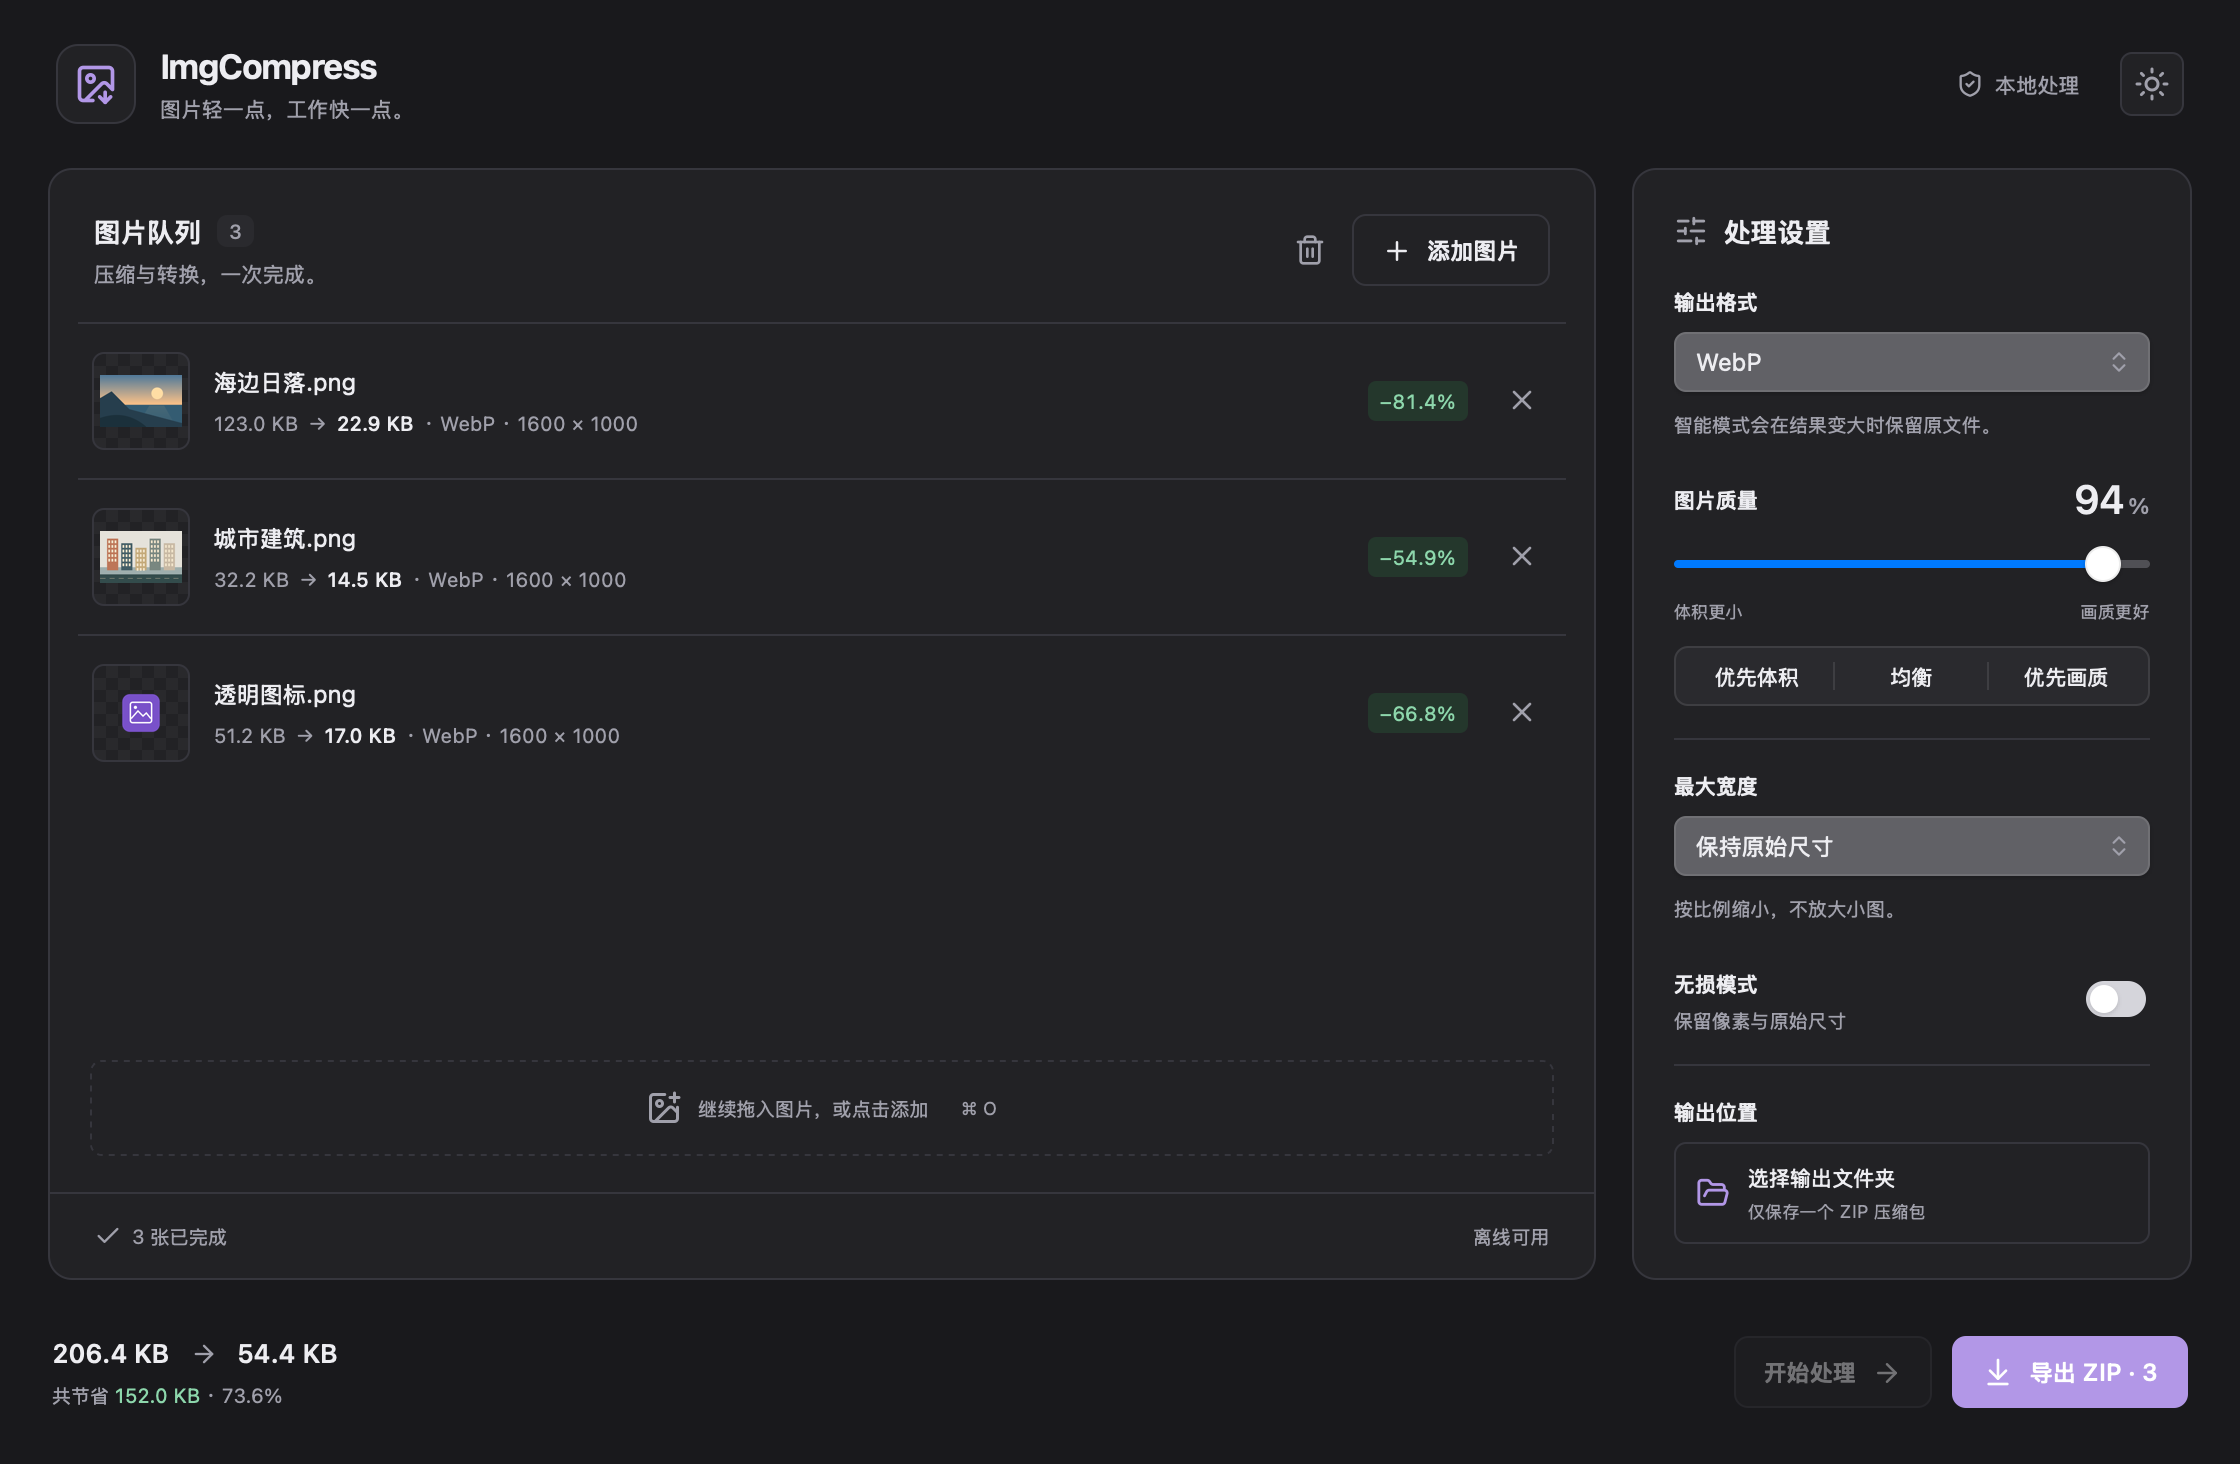
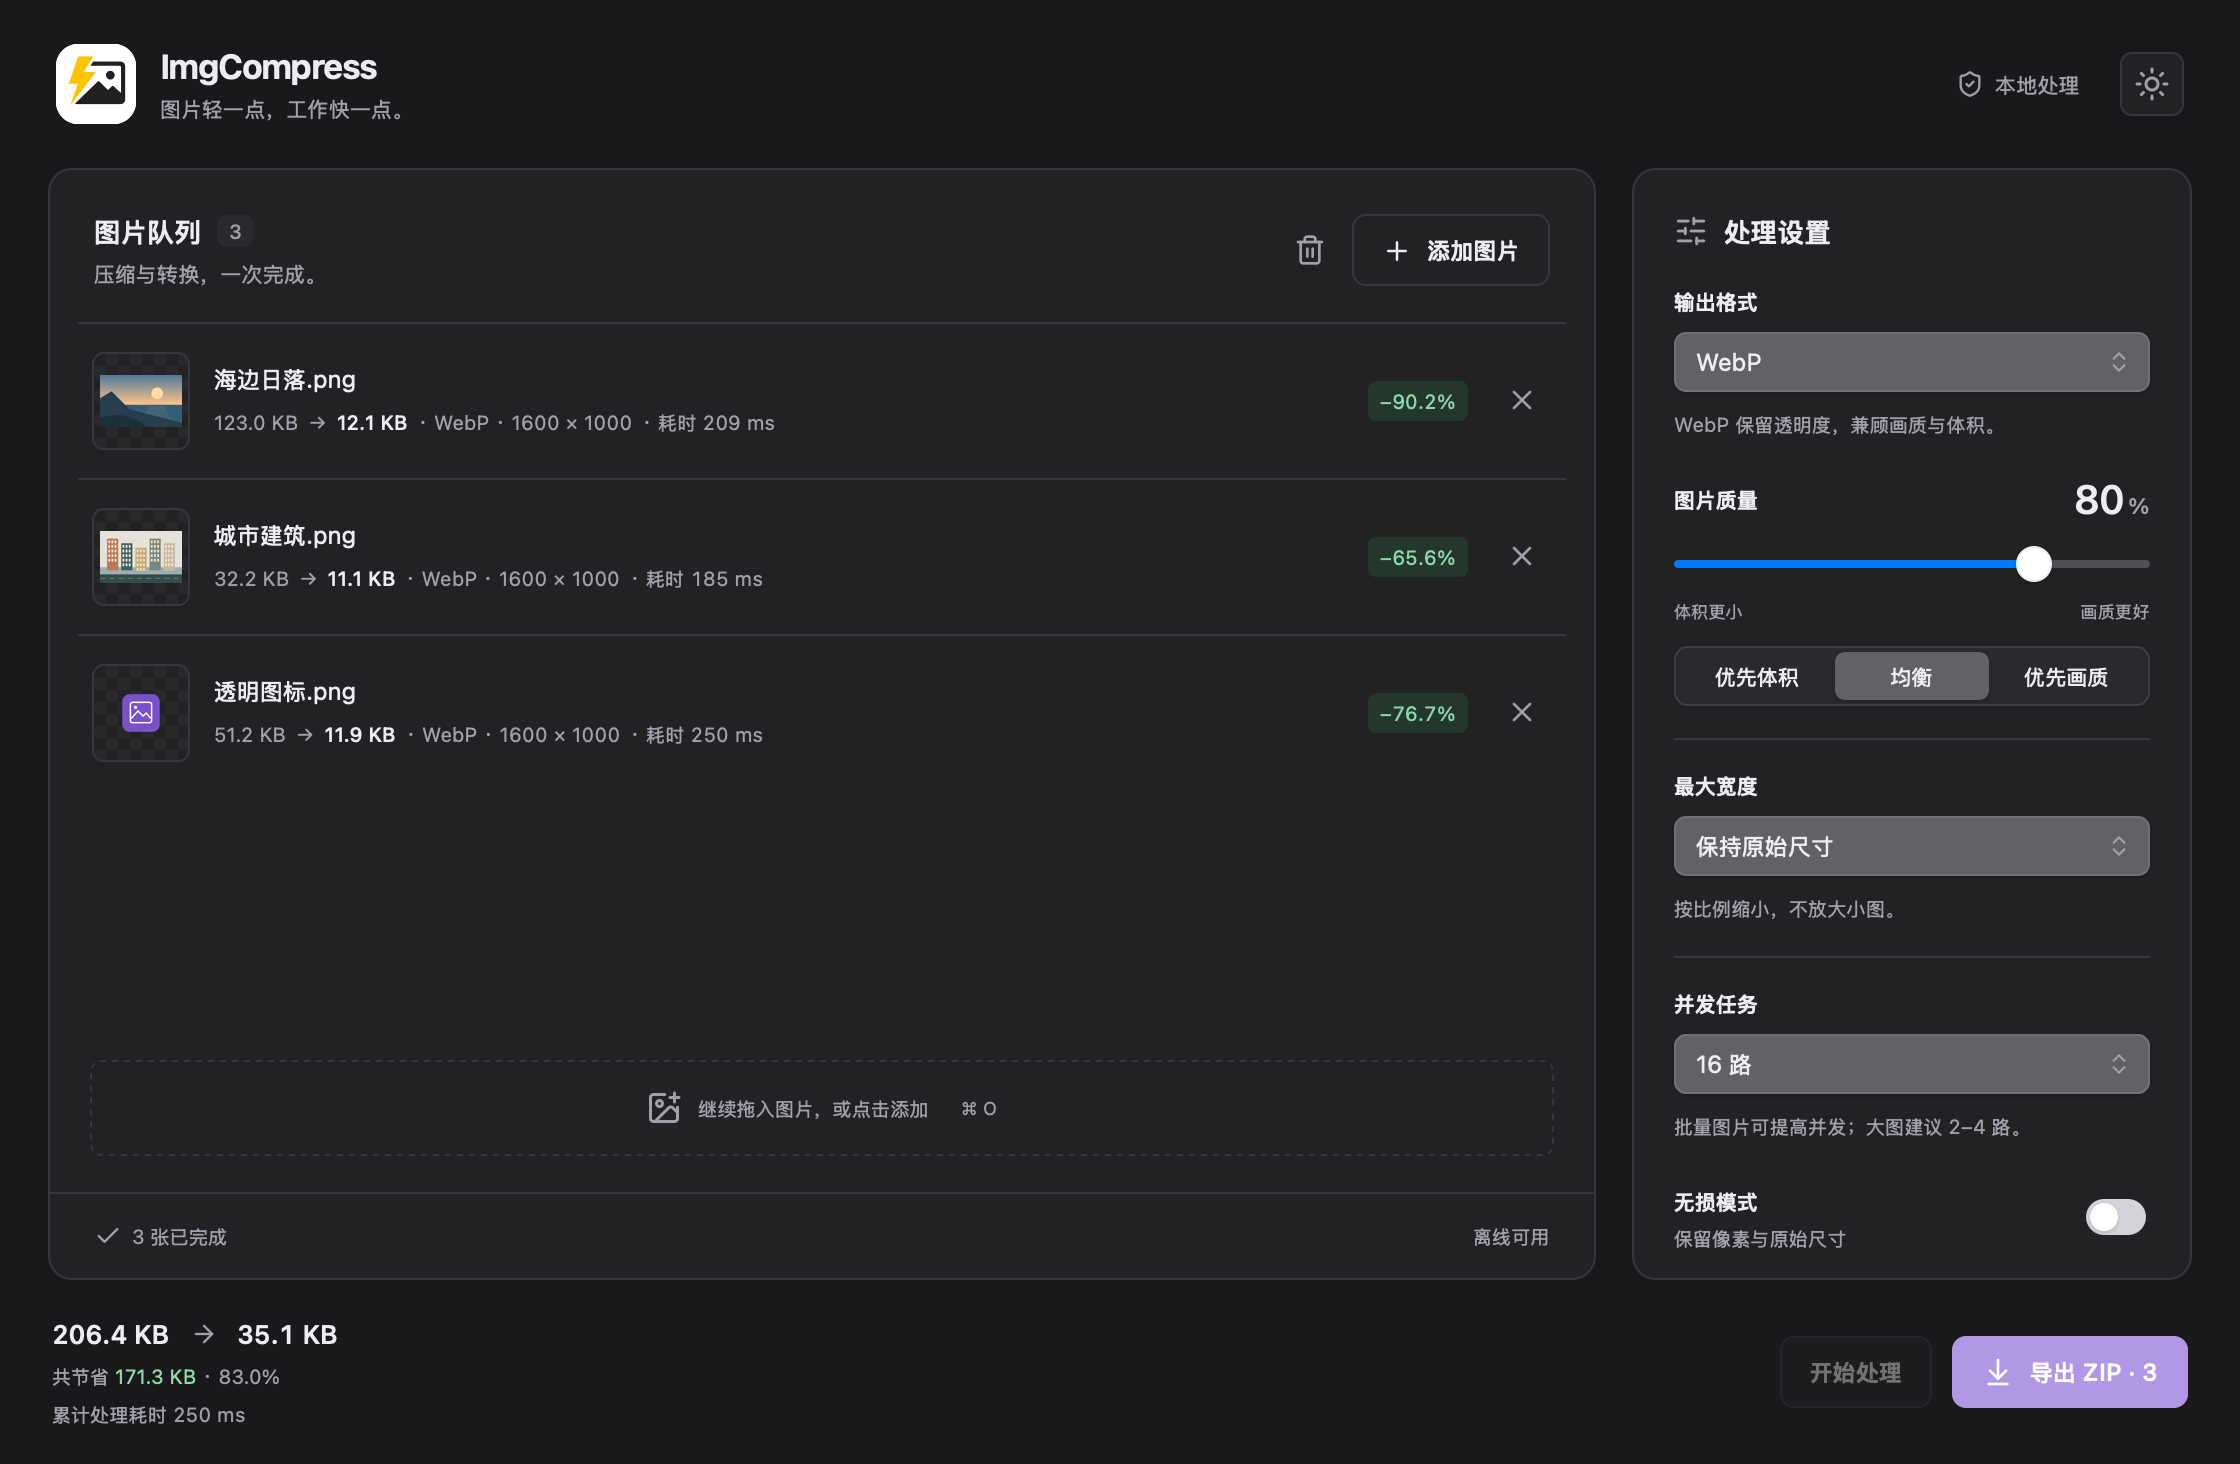
docs: 更新 v0.2.4 界面截图

diff --git a/README.md b/README.md
@@ -14,13 +14,13 @@ v0.2.4 支持 JPG、PNG、WebP、AVIF、SVG、GIF 和 APNG，并提供最高 16 
 
 ### 主界面 · 浅色模式
 
-拖入图片，设置输出格式、质量和尺寸，处理全程在本机完成。
+支持七种常用图片格式，可设置输出格式、质量、尺寸及最高 16 路并发，处理全程在本机完成。
 
 ![ImgCompress Mac 浅色主界面与处理设置](docs/screenshots/main-light.png)
 
 ### 批量压缩 · 深色模式
 
-查看每张图片处理前后的体积，完成后统一导出一个 ZIP 压缩包。
+查看每张图片处理前后的体积、单张与累计处理耗时，完成后统一导出一个 ZIP 压缩包。
 
 ![ImgCompress Mac 深色模式下的批量压缩结果与 ZIP 导出](docs/screenshots/batch-dark.png)
 
@@ -30,7 +30,7 @@ v0.2.4 支持 JPG、PNG、WebP、AVIF、SVG、GIF 和 APNG，并提供最高 16 
 
 ![ImgCompress Mac 图片处理前后对比预览](docs/screenshots/preview-dark.png)
 
-截图来自 0.1.3 版本的实际 Mac 应用，使用专门制作的示例图片；压缩比例仅代表截图中的样本。
+截图来自 v0.2.4 代码构建的实际 Mac 原生窗口，使用专门制作的示例图片；压缩比例与耗时仅代表截图中的样本。
 
 ## 安装与使用
 
